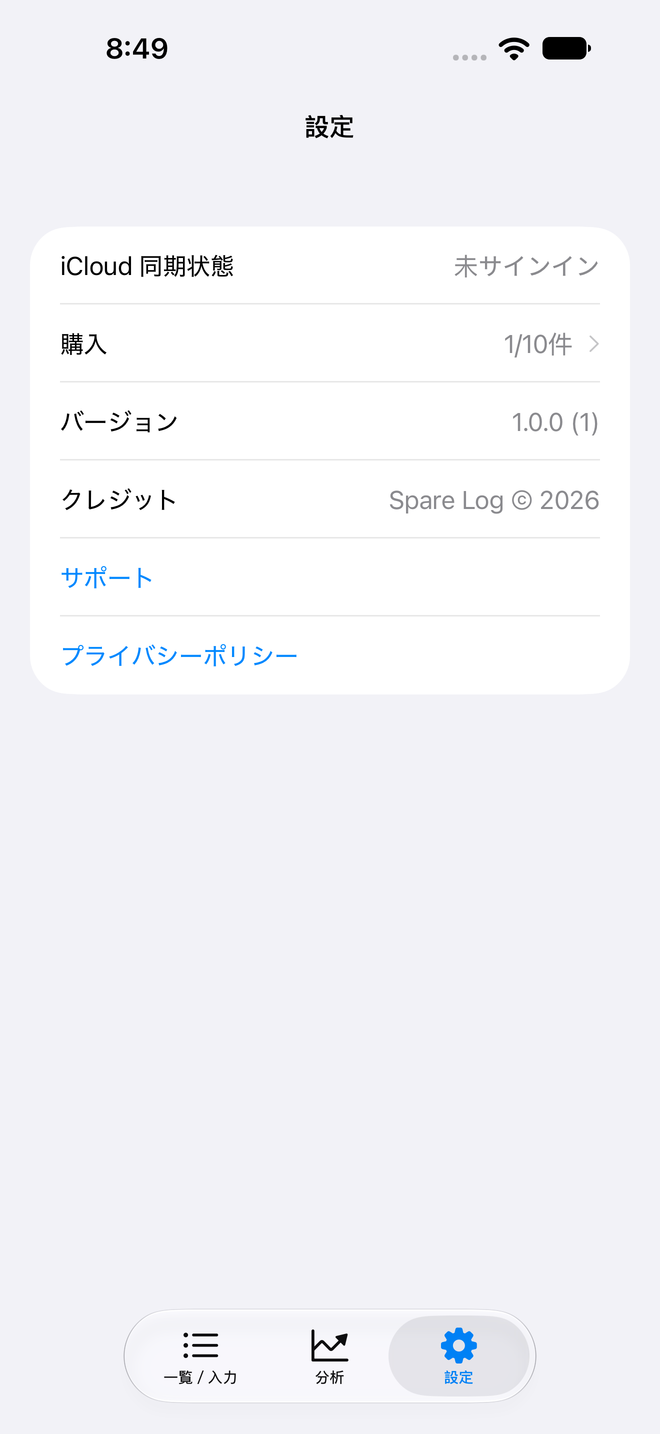
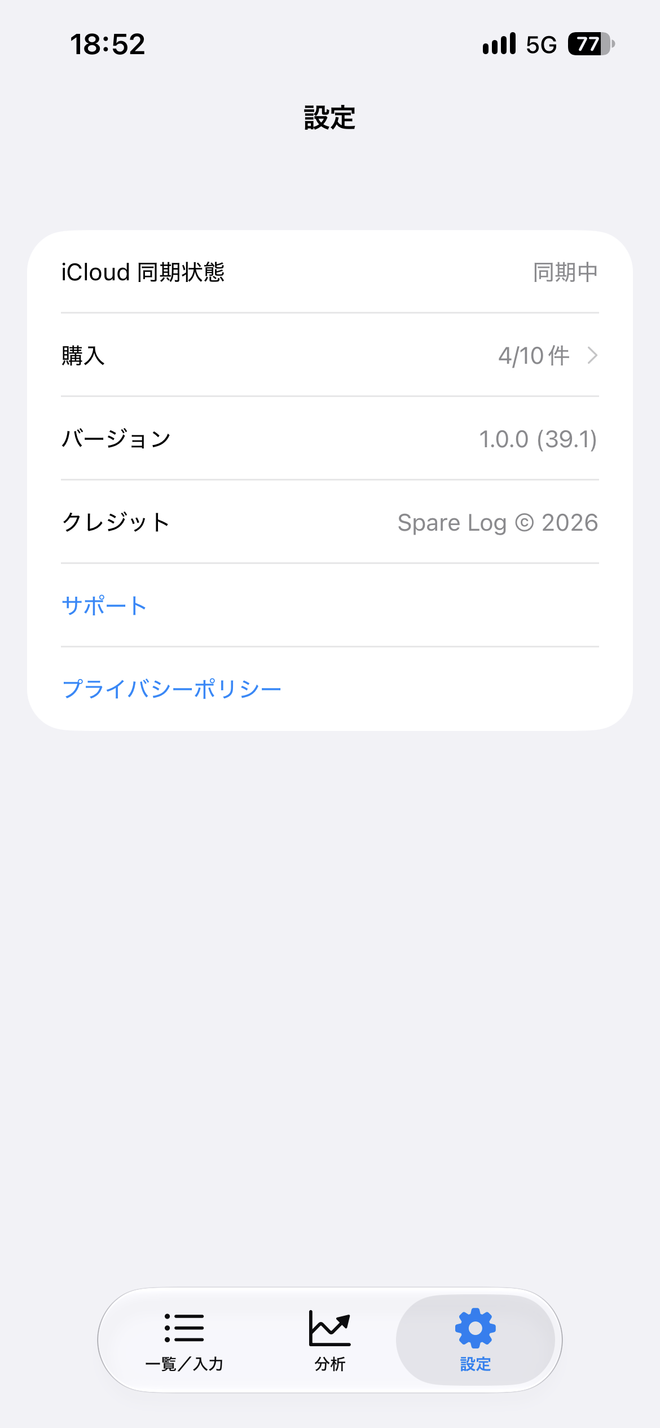
設定タブの画像を、実機で撮ったものに替える

diff --git a/support.html b/support.html
@@ -30,7 +30,7 @@
 <p>お送りいただく際は、iPhone の機種、iOS のバージョン、アプリのバージョンを添えていただくと、確認しやすくなります。アプリのバージョンは、下の画面の「バージョン」の行で確かめられます。</p>
 <div class="shots">
   <figure class="shot">
-    <img src="images/settings.png" alt="「設定」タブの画面。「バージョン」の行に、アプリのバージョンが表示されている。" width="660" height="1434">
+    <img src="images/settings.png" alt="「設定」タブの画面。「バージョン」の行に、アプリのバージョンが表示されている。" width="660" height="1428">
     <figcaption>「設定」タブ</figcaption>
   </figure>
 </div>
